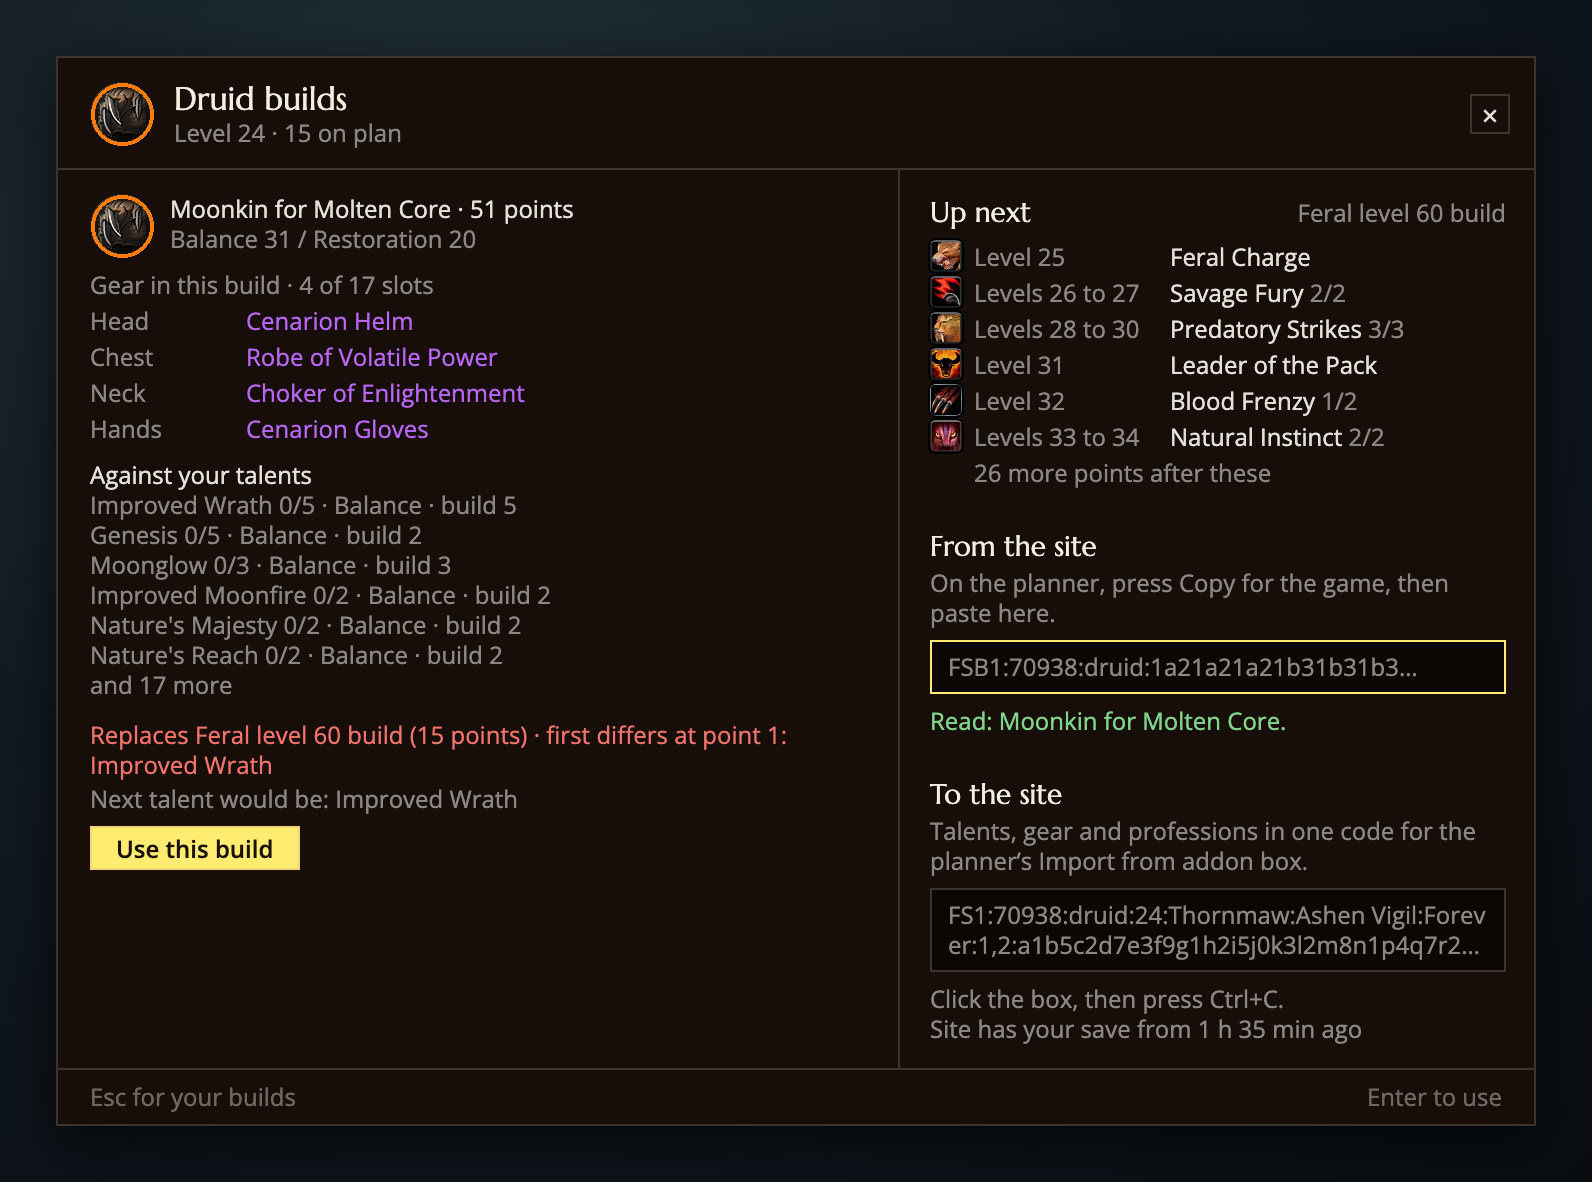
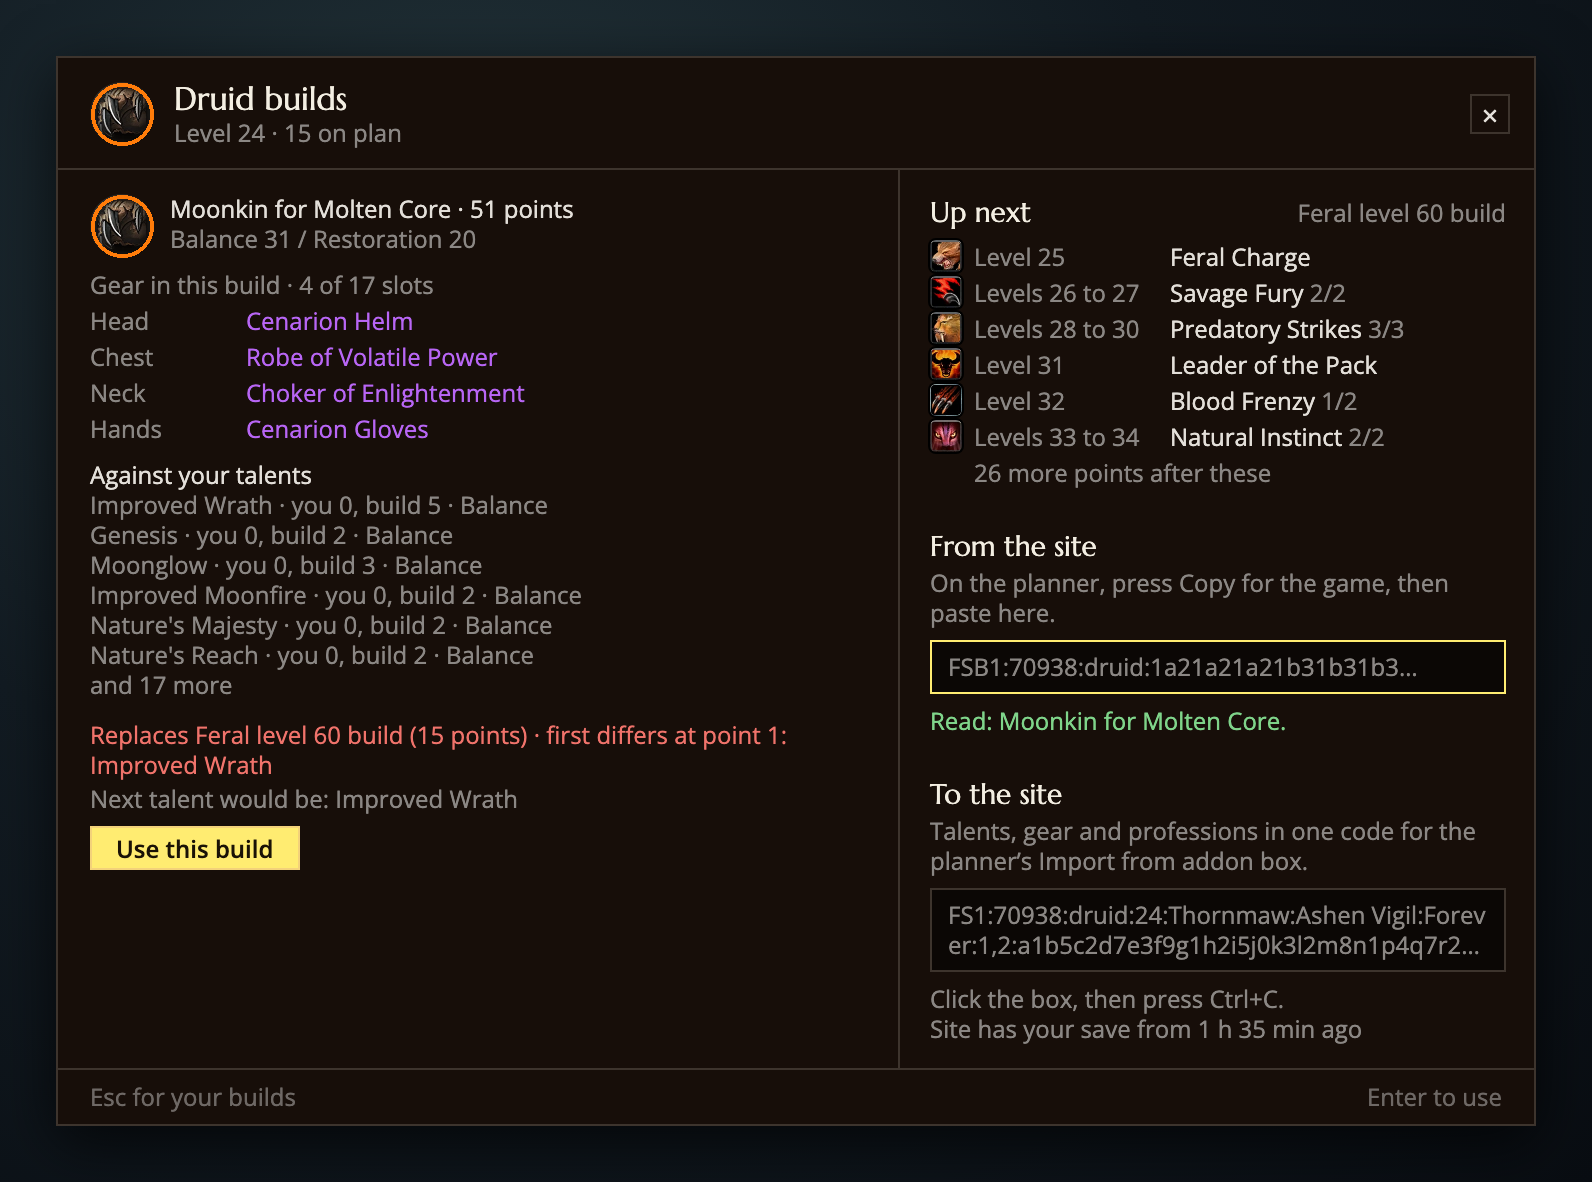
fix(addon): the preview's talent rows read you and build as numbers of one kind; final verdicts
ux-designer and wow-player SHIP, ai-slop-reviewer, info-density-reviewer and
brand-consistency-reviewer PASS (design/reviews/2026-11-13-addon-builds-window/).

Claude-Session: https://claude.ai/code/session_01Wrtayzxz2jvhjren4pWihn

Changed region(s): [[0.1231, 0.3959, 0.3693, 0.5787]]

diff --git a/design/mocks/addon_builds_window.py b/design/mocks/addon_builds_window.py
@@ -326,12 +326,7 @@ def preview_changes():
     entries = [k for k in keys if have[k] != want[k]]
     lines = []
     for k in entries[:6]:
-        cell = table[k]
-        if want[k] == 0:
-            lines.append(lua_format(L('windowTalentHave'), cell['name'], have[k], cell['max_rank'], trees[k[0] - 1]))
-        else:
-            lines.append(lua_format(L('windowTalentBuild'), cell['name'], have[k], cell['max_rank'], trees[k[0] - 1],
-                                    want[k]))
+        lines.append(lua_format(L('windowTalentBuild'), table[k]['name'], have[k], want[k], trees[k[0] - 1]))
     if len(entries) > 6:
         lines.append(lua_format(L('dialogInboxMore'), len(entries) - 6))
     return lines

diff --git a/design/reviews/2026-11-13-addon-builds-window/wow-player.md b/design/reviews/2026-11-13-addon-builds-window/wow-player.md
@@ -19,3 +19,34 @@ Round 1 fixes confirmed on the re-rendered boards:
 - Spec "Level 60 build" against a player's word "leveling build" is now consistent, but "Level 60 and raid build" on a one-row spec is clumsy next to the two-row specs. "Level 60 / Raid build" would read cleaner.
 - No respec cost line when Use this build replaces 15 points. A druid at 24 pays gold, and the red Replaces line should say so.
 - Gear rows in the paste preview have no icons or sources (already on the follow-up list; fine for now).
+
+---
+
+# Round 3
+
+**Verdict: SHIP WITH FIXES** (one small must-fix)
+
+Round 2 items confirmed:
+- Off plan lines read "Hawk Eye 3/3 · Marksmanship" and "Deflection 2/5 · Survival". Clean.
+- The header "Level 42 · 27 on plan · 5 off plan · 1 to spend" adds to 33. Clear.
+- The druid header "Level 24 · 15 on plan" is right for the data.
+
+New in this round: the preview's "Against your talents" list (Improved Wrath 0/5 · Balance · build 5, and so on, with "and 17 more").
+
+## Remaining must-fix
+
+1. The row format is ambiguous. "Improved Wrath 0/5 · Balance · build 5" shows the player's rank as a rank fraction (0/5) and the build's rank as a bare number ("build 5"). A player reads "0/5" as the talent's own cap. Write "Improved Wrath · Balance · you 0, build 5", or "Improved Wrath 0 to 5 · Balance". Use the same shape the Off plan lines use.
+
+## Should-fix, not blocking
+
+- The list shows only what the build adds. A Feral druid switching to Moonkin also loses Ferocity 5/5 and the rest, which is the respec the player pays for. Add a "You lose" line, or say "and 17 more" covers both.
+- Still no respec cost on the red Replaces line.
+- "and 17 more" cannot be expanded (already on the follow-up list).
+
+---
+
+# Round 4
+
+**Verdict: SHIP**
+
+The round 3 must-fix is done. "Improved Wrath · you 0, build 5 · Balance" reads unambiguously, and the tree-order list puts the drops (Ferocity, you 5, build 0) behind "and 17 more". The earlier should-fix notes (respec cost on the Replaces line, an expandable "and N more") are follow-ups, not blockers.

diff --git a/design/reviews/2026-11-13-addon-builds-window/ai-slop-reviewer.md b/design/reviews/2026-11-13-addon-builds-window/ai-slop-reviewer.md
@@ -1,0 +1,7 @@
+# Builds window: ai-slop-reviewer (2026-11-13)
+
+Round 1: FAIL (a raw `\194\183` on a board; explainers and narration lines; flat row weight; Following flush to its ground). Round 2: FAIL (the summary repeating level and class, "You are still following", the long Selected line, Following's padding). Round 3: the summary is `14 items · 2 professions · your guild and realm are included`; the refusal is the codec's lead and its hint; the header reads `27 on plan · 5 off plan · 1 to spend`; `Selected. Press Ctrl+C.`; Following padded on the Follow buttons' edge; off-plan lines read as data; the preview lists its talents against yours. Kept rulings accepted: the sim line (a state), the site's save line (the ack, not the local save), the FSB1 hint, `4 of 17 slots`, the planner rail's row anatomy, Replaces and the next talent as different facts. No hard-fail visual tell on any board.
+
+Nits, not blocking: the preview fixture repeats Improved Wrath three times (the first difference and the next point coincide in it); `Selected.` could go; the row label stays brighter than the split, as on the planner.
+
+**Verdict: PASS**

diff --git a/design/reviews/2026-11-13-addon-builds-window/info-density-reviewer.md b/design/reviews/2026-11-13-addon-builds-window/info-density-reviewer.md
@@ -1,0 +1,7 @@
+# Builds window: info-density-reviewer (2026-11-13)
+
+Round 1: FAIL (off-plan count without the talents, Up next's silent stop at six, the thin preview, the dead level 60 Up next, the raw escape). Round 2: FAIL (the preview's empty left column; the level 60 Up next). Round 3: the preview lists the pasted build's talents against the character's (`Improved Wrath 0/5 · Balance · build 5`, six then `and 17 more`, from the decoded order against the spend); `Every point is placed.` at 60 on plan is an honest empty state, the Off plan block naming anything off; Up next says what is past its rows; the header names on plan, off plan and to spend.
+
+Deferred to later lanes (accepted): talent tooltips on Up next, Off plan and the changes (the client's talent index per cell); item icons and sources on the preview's gear (the Gear tab). Optional: drop the next-talent line now the list covers it; "34 of 51 points match" on the preview header.
+
+**Verdict: PASS**

diff --git a/design/reviews/2026-11-13-addon-builds-window/ux-designer.md b/design/reviews/2026-11-13-addon-builds-window/ux-designer.md
@@ -7,3 +7,9 @@ Checked: `1 to spend` in the client gold explains 27 of 33; Up next's tail lines
 Polish, not blocking: inset `Following` 8 px from the highlight's edge; the selected status wraps `foreversixty.gg.` alone; no board shows a site row's hover; the preview column's empty space (follow-ups in round-1.md).
 
 **Verdict: SHIP**
+
+## Round 3
+
+Confirmed on the boards: the header `27 on plan · 5 off plan · 1 to spend`; the off-plan lines; Following inset (the ground runs 6 px past the label); `Selected. Press Ctrl+C.` on one line; the summary without level and class; the preview's `Against your talents` under the gear with Use still clear of the floor. The changes rows now read `Improved Wrath · you 0, build 5 · Balance` (the polish item, and wow-player's round 3 must-fix). Polish left: the summary's last word can wrap alone; site rows have no hover board.
+
+**Verdict: SHIP**

diff --git a/design/reviews/2026-11-13-addon-builds-window/brand-consistency-reviewer.md b/design/reviews/2026-11-13-addon-builds-window/brand-consistency-reviewer.md
@@ -1,0 +1,7 @@
+# Builds window: brand-consistency-reviewer, against the planner (2026-11-13)
+
+Round 1: PASS with fixes (section headings in the wrong face, the split format, "Level" for a run, the mock's raw escape, sample names, the apostrophe). Round 2: PASS, no must-fix (headings in the title face at 14 px, "Levels 44 to 48", the escape decoded, the planner's apostrophe, made-up names; the named split kept with the ruling in round-1.md). Round 3: PASS, no new must-fix; the "Against your talents" list keeps the window's flat, muted list style. "Copy for the game" and "Import from addon" match `web/src/lib/addon/copy.ts`; gold for the followed build is the web gold; ringed crests and spec icons throughout.
+
+Note, not blocking: the header's parts no longer echo the planner's "51 of 51 points" lead figure; acceptable for a status line.
+
+**Verdict: PASS**
